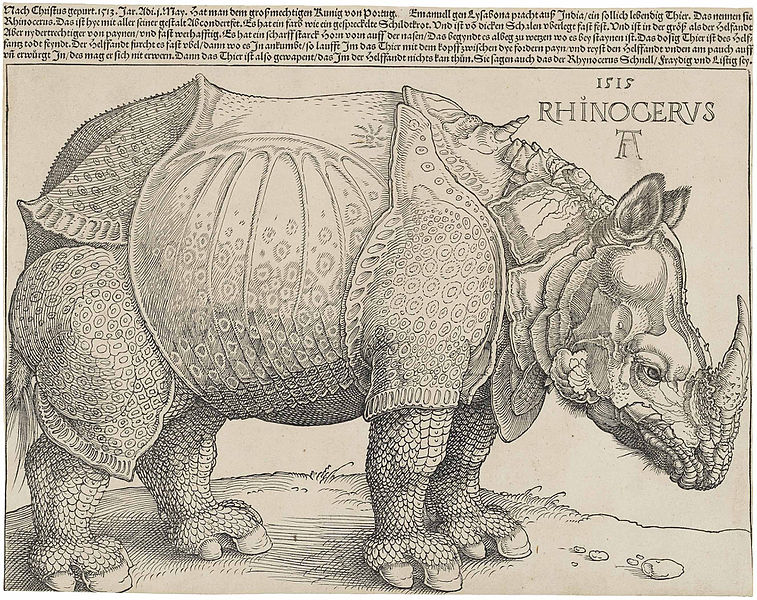
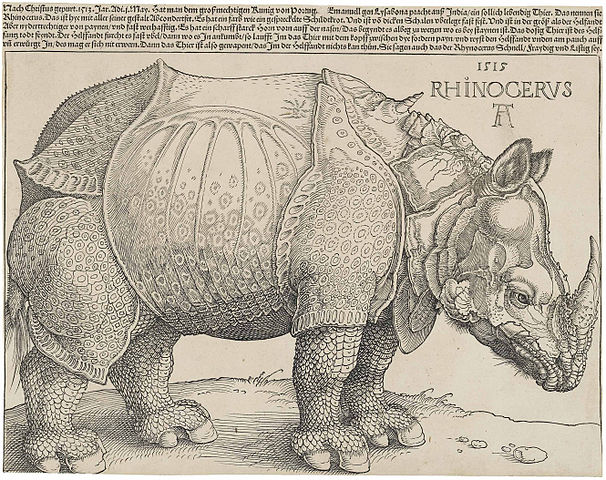
Update to new theme, improve demo files to match

diff --git a/content/post/acknowledgements.rst b/content/post/acknowledgements.rst
@@ -34,6 +34,23 @@ has done us all a great favor with his careful development of this theme.
 Ananke proved to be one of the better teaching tools I have found
 for understanding how templates actually work in Hugo.
 
+Much of the look and some of the behavior of this theme
+comes from studying
+`Tufte CSS <https://edwardtufte.github.io/tufte-css/>`__
+as an excellent effort to translate Edward Tufte's style
+over to web-based publishing.
+`Dave Liepmann <http://www.daveliepmann.com/>`__
+has developed an impressive HTML & CSS implementation of
+much of Edward Tufte's ideas.
+Those interested in tools that follow the Tufte designs
+more carefully should look at Tufte CSS, or the related projects:
+`Tufte Handout <http://rstudio.github.io/tufte/>`__ (in RMarkdown)
+and `Tufte LaTex <https://tufte-latex.github.io/tufte-latex/>`__ (for LaTex).
+Very little of the original quality survived this translation
+over to Hugo templates and reStructuredText-based CSS,
+but without these projects it would have been far more difficult
+to even know where to begin.
+
 
 Attributions
 ************
@@ -70,6 +87,41 @@ the incredibly useful
    Shared under the Creative Commons
    `Attribution-Share Alike 3.0 Unported <https://creativecommons.org/licenses/by-sa/3.0/deed.en>`__
    license.
+
+The `Tufte Example </post/tufte/>`__ page includes some illustrations
+to match the images used in "Tufte CSS".  For these, I have found
+versions of the same illustrations in the Wikimedia Commons.
+
+.. figure:: /post/tufte/Rhinoceros.jpg
+
+   Albrecht Dürer, :title:`The Rhinoceros`
+   (B. 136; M., Holl. 241; S.M.S. 241)
+   woodcut with letterpress text, 1515.
+
+   From https://commons.wikimedia.org/wiki/File:D%C3%BCrer%27s_Rhinoceros,_1515.jpg
+
+   Shared as content in the Public Domain.
+
+
+.. figure:: /post/tufte/Minard.png
+   :width: 800px
+
+   Charles Minard's 1869 chart showing the number of men
+   in Napoleon’s 1812 Russian campaign army, their movements,
+   as well as the temperature they encountered on the return path.
+
+   From https://commons.wikimedia.org/wiki/File:Minard.png
+
+   Shared as content in the Public Domain.
+
+
+.. figure:: /post/tufte/1786_Playfair_Export_Import.jpg
+
+   Export & Import to and from all North America from 1700 to 1800 (from 3e edition, 1801), :title:`The Commercial and Political Atlas`, 1786 (3th ed. edition 1801)
+
+   From https://commons.wikimedia.org/wiki/File%3a1786_Playfair_-_5_Export_%26_Import_to_and_from_all_North_America_from_1700_to_1800_(from_3e_edition,_1801).jpg
+
+   Shared as content in the Public Domain.
 
 
 Thank you all.

diff --git a/content/post/using-bside.rst b/content/post/using-bside.rst
@@ -5,9 +5,11 @@ description = "An introduction to using reStructuredText with Hugo B-side."
 date = "Sat Dec 30 09:59:24 PST 2017"
 categories = ["Demo"]
 tags = ["reStructuredText", "responsive", "theme", "markup"]
-weight = 2
+weight = 3
 
 +++
+
+.. _contents:
 
 .. class:: sidebar
 
@@ -66,6 +68,8 @@ covered in that demonstration page.
 
 reStructuredText Background
 ***************************
+
+.. _images:
 
 .. figure:: /img/rst-rotated.png
    :align: left
@@ -223,6 +227,8 @@ on the relatively simple needs of blog-centric Hugo |--|
 with the added feature of a responsive page design
 that will adapt the elements to suit each browser environment.
 
+.. _admonitions:
+
 .. note::
    :class: sidebar narrow align-left
 
@@ -277,6 +283,8 @@ images may spill out beyond the figure to either obscure the other
 content or run off the far edge of the page.
 
 
+.. _sidebars:
+
 Sidebars
 ========
 
@@ -321,6 +329,8 @@ to instead become floating elements beside the main body of content.
    This table is moved to the sidebar.
    Potentially useful if the content is skinny,
    such as the following table.
+
+   .. _math:
 
    ===== ====
    Num   Word
@@ -593,6 +603,8 @@ in a
 `sidebar <http://docutils.sourceforge.net/docs/ref/rst/directives.html#sidebar>`__
 and will use this responsive form in those cases.
 
+
+.. _tables:
 
 Responsive Tables
 -----------------

diff --git a/content/post/tufte.rst b/content/post/tufte.rst
@@ -1,10 +1,12 @@
 +++
-date = "2017-12-07T11:37:45-07:00"
+date = "Tue Jan  1 13:34:19 PST 2018"
 title = "Tufte Example"
+author = "Alexander Carlton"
 description = "An adaptation of the Tufte CSS sample page implemented in reStructuredText."
 categories = [ "Web" ]
 tags = [ "Tufte", "CSS", "reStructuredText" ]
 type = "post"
+weight = 1
 
 +++
 
@@ -221,6 +223,8 @@ Credit goes to Adam Schwartz for the technique |--|
 we are impressed, and grateful.
 
 
+.. _epigraphs:
+
 Epigraphs
 *********
 
@@ -259,6 +263,8 @@ with and without a paragraph tag,
 and showing how multiple quotes within an epigraph
 fit together with the use of a single directive.
 
+
+.. _sidenotes:
 
 Sidenotes: Footnotes and Marginal Notes
 ***************************************
@@ -372,6 +378,8 @@ can be found in
 of [ReST]_.
 
 
+.. _figures:
+
 Figures
 *******
 
@@ -478,6 +486,8 @@ In markup:
 
       Figurative map of the successive losses of the French Army ...
   
+
+.. _code:
 
 Code
 ****

diff --git a/content/post/hugo-and-rest.rst b/content/post/hugo-and-rest.rst
@@ -5,7 +5,7 @@ description: "Using reStructuredText in Hugo, and why."
 date: "Sat Dec 30 09:58:38 PST 2017"
 categories: [ "Demo" ]
 tags: [ "Hugo", "reStructuredText", "markup" ]
-weight: 1
+weight: 2
 
 ---
 
@@ -26,6 +26,8 @@ OK.  So what?...
 .. This is a comment, or what a comment looks like in reStructuredText.
    This comment is here to note that the line above is a link target
    for the link later in the text that references the pull quote just below.
+
+.. _pullquotes:
 
 .. class:: fullwidth
 
@@ -71,6 +73,9 @@ One that wraps text around images flushed either to the right or the left,
 and supports more formal figures when images need annotations.
 
 .. [*] This is a sidenote.
+
+.. _footnotes:
+.. _citations:
 
 One that also manages citations [ReST]_, footnotes\ [#]_,
 and even sidenotes\ [*]_ expertly,

diff --git a/content/post/configuring.rst b/content/post/configuring.rst
@@ -5,7 +5,7 @@ description = "What settings are available for Hugo B-side."
 date = "Sat Dec 30 22:23:34 PST 2017"
 categories = ["Demo"]
 tags = ["config", "theme", "Hugo"]
-weight = 3
+weight = 5
 
 +++
 
